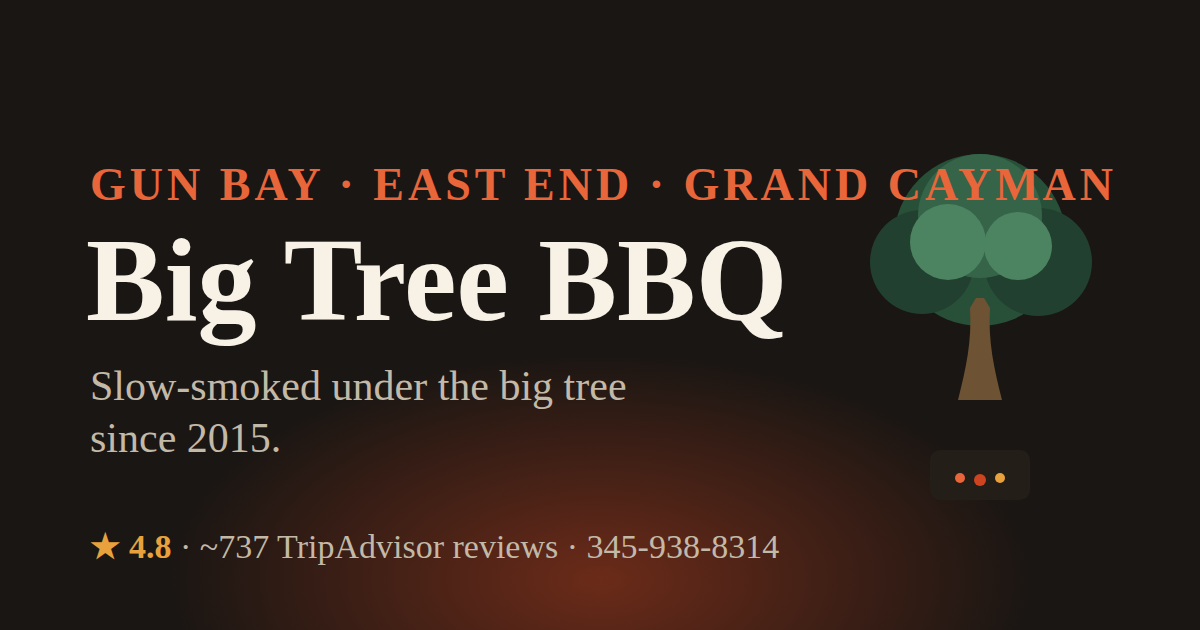
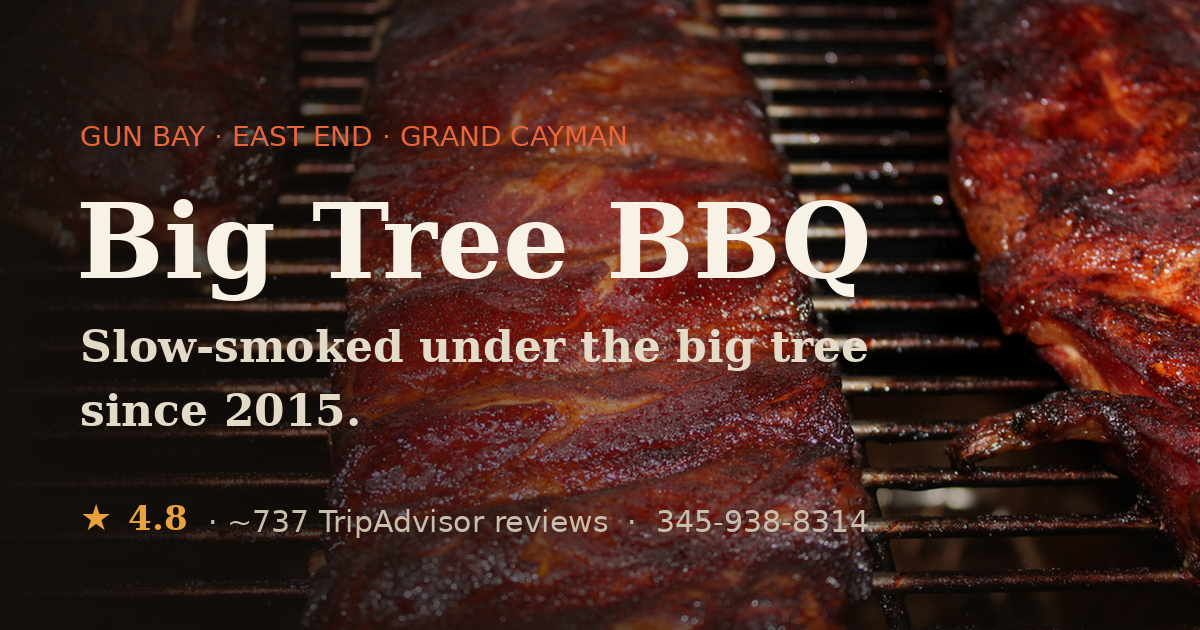
Big Tree BBQ: replace illustrations with real licensed photography (#3)
Swap the hero SVG scene, story tree illustration and dashed gallery
placeholders for real barbecue photographs (CC BY 2.0, Flickr via the
Open Images index; full attribution in PHOTO-CREDITS.md + footer link):

- Hero: glazed rib racks on the grate (also drives the new photographic
  OG/social card, replacing og-image.svg)
- Menu: photo header on The Pit category
- Story: chicken smoking over charcoal on an open kettle
- Visit gallery: sauced ribs, grilled chicken, open fire pit

All images sized/compressed (58-250KB), explicit width/height (no CLS),
lazy-loaded below the fold, hero preloaded with fetchpriority=high,
descriptive alt text, and labelled on-page as representative until the
family supplies their own shots. axe re-run: 0 critical/serious.

Claude-Session: https://claude.ai/code/session_01FcBpgNBCtY74ECRVXeQZAj

diff --git a/big-tree-bbq/index.html b/big-tree-bbq/index.html
@@ -26,6 +26,7 @@
 
 <link rel="preconnect" href="https://fonts.googleapis.com">
 <link rel="preconnect" href="https://fonts.gstatic.com" crossorigin>
+<link rel="preload" as="image" href="photos/hero-ribs.jpg" fetchpriority="high">
 <link rel="preload" as="style" href="https://fonts.googleapis.com/css2?family=Zilla+Slab:wght@500;600;700&family=Hanken+Grotesk:wght@400;500;600;700&display=swap">
 <link href="https://fonts.googleapis.com/css2?family=Zilla+Slab:wght@500;600;700&family=Hanken+Grotesk:wght@400;500;600;700&display=swap" rel="stylesheet">
 
@@ -197,15 +198,10 @@ header{position:sticky;top:0;z-index:100;height:var(--bar-h);
 .stars{display:inline-flex;gap:2px}
 .stars svg{width:16px;height:16px;color:var(--gold)}
 .hero-art{position:relative}
-.hero-art svg{width:100%;height:auto;filter:drop-shadow(0 24px 40px rgba(0,0,0,.35))}
-@media (max-width:900px){.hero-art{max-width:420px;margin-top:var(--s4)}}
-.ember{transform-origin:center;animation:flick 3.4s ease-in-out infinite}
-.ember2{animation-delay:.7s}.ember3{animation-delay:1.5s}
-@keyframes flick{0%,100%{opacity:.85;transform:translateY(0)}50%{opacity:1;transform:translateY(-1.5px)}}
-.smoke{animation:rise 6s ease-in-out infinite}
-.smoke2{animation-delay:2s}
-@keyframes rise{0%{opacity:.0;transform:translateY(6px)}40%{opacity:.5}100%{opacity:0;transform:translateY(-14px)}}
-@media (prefers-reduced-motion:reduce){.ember,.smoke{animation:none}}
+.hero-art img{width:100%;height:auto;border-radius:var(--r-lg);box-shadow:0 24px 48px rgba(0,0,0,.45), 0 0 0 1px rgba(247,241,230,.08)}
+.art-credit{margin-top:var(--s2);font-size:var(--fs-2xs, .72rem);font-size:.75rem;color:var(--muted-light);opacity:.75}
+.art-credit a{color:inherit;text-decoration:underline}
+@media (max-width:900px){.hero-art{max-width:460px;margin-top:var(--s4)}}
 
 /* ---------- Proof strip ---------- */
 .proof{background:var(--g700);color:var(--cream)}
@@ -238,6 +234,7 @@ section{padding-block:clamp(var(--s8),10vw,var(--s9))}
   border:1px solid rgba(126,169,139,.22);border-radius:var(--r-lg);padding:var(--s6);position:relative;overflow:hidden}
 .cat.feature::after{content:"";position:absolute;right:-40px;top:-40px;width:180px;height:180px;
   background:radial-gradient(circle,rgba(207,68,32,.22),transparent 70%)}
+.cat-photo{width:100%;height:auto;border-radius:var(--r-md);margin-bottom:var(--s4);box-shadow:0 8px 24px rgba(0,0,0,.4)}
 .cat h3{font-size:var(--fs-xl);color:var(--cream);display:flex;align-items:center;gap:12px}
 .cat h3 svg{width:26px;height:26px;color:var(--ember-soft);flex:none}
 .cat .cat-note{font-size:var(--fs-sm);color:var(--muted-light);margin-top:6px}
@@ -270,9 +267,9 @@ section{padding-block:clamp(var(--s8),10vw,var(--s9))}
 .story-copy p{margin-top:var(--s4);color:var(--muted)}
 .story-copy .sig{margin-top:var(--s5);font-family:var(--display);font-weight:600;color:var(--g600);font-size:var(--fs-lg)}
 .story-art{background:linear-gradient(165deg,var(--g600),var(--g800));border-radius:var(--r-lg);
-  padding:var(--s7);box-shadow:var(--e3);position:relative;overflow:hidden;color:var(--cream)}
-.story-art svg.big-tree{width:100%;max-width:340px;margin-inline:auto}
-.story-art .cap{text-align:center;margin-top:var(--s4);font-size:var(--fs-sm);color:var(--g100)}
+  padding:var(--s4);box-shadow:var(--e3);position:relative;overflow:hidden;color:var(--cream)}
+.story-art img{width:100%;height:auto;border-radius:var(--r-md)}
+.story-art .cap{text-align:center;margin-top:var(--s3);font-size:var(--fs-xs);color:var(--g100)}
 
 /* ---------- Sunday band ---------- */
 .sunday{background:linear-gradient(120deg,var(--ember-deep),var(--ember));color:#fff;text-align:center}
@@ -325,13 +322,11 @@ table.hours tr.closed td{color:var(--muted)}
 .visit-cta{display:flex;flex-wrap:wrap;gap:var(--s3);margin-top:var(--s5)}
 .note-flag{margin-top:var(--s5);font-size:var(--fs-xs);color:var(--muted);background:var(--cream);border:1px dashed var(--line);border-radius:var(--r-md);padding:var(--s3) var(--s4)}
 
-/* photo slot — honest placeholder */
+/* photo gallery */
 .photo-slots{display:grid;grid-template-columns:repeat(3,1fr);gap:var(--s3);margin-top:var(--s5)}
 @media (max-width:600px){.photo-slots{grid-template-columns:1fr 1fr}}
-.slot{aspect-ratio:4/3;border:1.5px dashed rgba(33,64,47,.28);border-radius:var(--r-md);
-  background:var(--cream);display:flex;flex-direction:column;align-items:center;justify-content:center;gap:6px;
-  color:var(--muted);font-size:var(--fs-xs);text-align:center;padding:var(--s3)}
-.slot svg{width:26px;height:26px;color:var(--g400)}
+.slot-photo{width:100%;height:auto;aspect-ratio:4/3;object-fit:cover;border-radius:var(--r-md);box-shadow:var(--e2)}
+.note-flag a{color:var(--ember-deep);text-decoration:underline}
 
 /* ---------- Footer ---------- */
 footer{background:var(--charcoal);color:var(--muted-light);padding-block:var(--s8) var(--s6)}
@@ -417,37 +412,9 @@ html.js .reveal.in{opacity:1;transform:none}
           </span>
         </div>
       </div>
-      <div class="hero-art" role="img" aria-label="Illustration of a large shade tree over a glowing barbecue pit with drifting smoke.">
-        <svg viewBox="0 0 400 360" fill="none" xmlns="http://www.w3.org/2000/svg">
-          <!-- smoke -->
-          <path class="smoke" d="M205 250c-8-14 6-20-2-34" stroke="rgba(247,241,230,.4)" stroke-width="4" stroke-linecap="round"/>
-          <path class="smoke smoke2" d="M235 252c8-14-6-22 2-36" stroke="rgba(247,241,230,.3)" stroke-width="4" stroke-linecap="round"/>
-          <!-- canopy -->
-          <g>
-            <circle cx="200" cy="120" r="92" fill="#285039"/>
-            <circle cx="132" cy="150" r="60" fill="#21402f"/>
-            <circle cx="268" cy="150" r="62" fill="#21402f"/>
-            <circle cx="200" cy="96" r="70" fill="#356449"/>
-            <circle cx="160" cy="120" r="46" fill="#3f7355"/>
-            <circle cx="244" cy="126" r="42" fill="#3f7355"/>
-          </g>
-          <!-- trunk -->
-          <path d="M188 190c2 30-4 52-10 78h64c-6-26-12-48-10-78l-6-8h-32l-6 8Z" fill="#6d5233"/>
-          <path d="M198 196c0 30-2 50-6 72M206 196c0 24 2 44 6 72" stroke="#553f26" stroke-width="3" stroke-linecap="round"/>
-          <!-- pit / drum -->
-          <rect x="150" y="270" width="100" height="54" rx="10" fill="#241e19"/>
-          <rect x="150" y="270" width="100" height="14" rx="7" fill="#2f2721"/>
-          <rect x="164" y="292" width="72" height="20" rx="6" fill="#0f0c0a"/>
-          <!-- embers -->
-          <circle class="ember" cx="180" cy="302" r="4.5" fill="#e8663a"/>
-          <circle class="ember ember2" cx="200" cy="304" r="5" fill="#cf4420"/>
-          <circle class="ember ember3" cx="220" cy="302" r="4.5" fill="#e8a13c"/>
-          <circle class="ember ember2" cx="210" cy="300" r="3" fill="#f7c88a"/>
-          <!-- legs -->
-          <path d="M164 324v14M236 324v14" stroke="#241e19" stroke-width="6" stroke-linecap="round"/>
-          <!-- ground -->
-          <ellipse cx="200" cy="342" rx="120" ry="10" fill="rgba(0,0,0,.25)"/>
-        </svg>
+      <div class="hero-art">
+        <img src="photos/hero-ribs.jpg" width="1400" height="1050" alt="Racks of glazed, slow-smoked ribs lined up on the grate over the pit." fetchpriority="high">
+        <p class="art-credit">Representative photo — owner photography coming. <a href="PHOTO-CREDITS.md">Credits</a></p>
       </div>
     </div>
   </section>
@@ -484,6 +451,7 @@ html.js .reveal.in{opacity:1;transform:none}
       </div>
       <div class="board">
         <div class="cat reveal">
+          <img class="cat-photo" src="photos/menu-pit-ribs.jpg" width="1000" height="562" alt="A whole rack of bark-crusted ribs smoking on the grill." loading="lazy">
           <h3>
             <svg viewBox="0 0 24 24" fill="none" stroke="currentColor" stroke-width="1.7" stroke-linecap="round" stroke-linejoin="round" aria-hidden="true"><path d="M4 20c2-5 5-8 8-8s6 3 8 8"/><path d="M9 12 7.5 6.5M12 12l0-6M15 12l1.5-5.5"/><path d="M6 20h12"/></svg>
             The Pit
@@ -578,20 +546,9 @@ html.js .reveal.in{opacity:1;transform:none}
         <p>There’s no dining room and no gimmicks. Just charcoal, a family that loves to feed people, and the best seats on the island: under the branches, out in the open, with the trade winds coming off the sea.</p>
         <p class="sig">— Henry &amp; Arvin Harris</p>
       </div>
-      <div class="story-art reveal" role="img" aria-label="Illustration of the big shade tree the barbecue is named for.">
-        <svg class="big-tree" viewBox="0 0 300 300" fill="none" xmlns="http://www.w3.org/2000/svg">
-          <circle cx="150" cy="110" r="86" fill="#2f5c41"/>
-          <circle cx="92" cy="132" r="52" fill="#254a34"/>
-          <circle cx="208" cy="132" r="54" fill="#254a34"/>
-          <circle cx="150" cy="86" r="62" fill="#3f7355"/>
-          <circle cx="118" cy="112" r="38" fill="#4c8462"/>
-          <circle cx="188" cy="116" r="34" fill="#4c8462"/>
-          <path d="M140 178c2 34-4 60-12 92h44c-8-32-14-58-12-92l-6-10h-8l-6 10Z" fill="#7a5d3a"/>
-          <path d="M150 184c0 34-2 58-6 86" stroke="#5c4529" stroke-width="3" stroke-linecap="round"/>
-          <path d="M146 200c-10-6-18-4-26 2M154 210c10-4 18 0 24 8" stroke="#5c4529" stroke-width="3" stroke-linecap="round"/>
-          <ellipse cx="150" cy="278" rx="86" ry="9" fill="rgba(0,0,0,.22)"/>
-        </svg>
-        <p class="cap">Owner photo of the real tree &amp; pit to be supplied</p>
+      <div class="story-art reveal">
+        <img src="photos/story-pit.jpg" width="1200" height="900" alt="Chicken smoking over glowing charcoal on an open kettle grill in a back yard." loading="lazy">
+        <p class="cap">The charcoal way — representative photo; owner shots of the real tree &amp; pit to come</p>
       </div>
     </div>
   </section>
@@ -700,12 +657,12 @@ html.js .reveal.in{opacity:1;transform:none}
               Open in Google Maps
             </a>
           </div>
-          <div class="photo-slots" aria-label="Photo gallery — awaiting owner images">
-            <div class="slot"><svg viewBox="0 0 24 24" fill="none" stroke="currentColor" stroke-width="1.6" stroke-linecap="round" stroke-linejoin="round" aria-hidden="true"><rect x="3" y="5" width="18" height="14" rx="2"/><circle cx="9" cy="11" r="2"/><path d="m3 17 5-4 4 3 3-2 6 5"/></svg>The tree &amp; pit</div>
-            <div class="slot"><svg viewBox="0 0 24 24" fill="none" stroke="currentColor" stroke-width="1.6" stroke-linecap="round" stroke-linejoin="round" aria-hidden="true"><rect x="3" y="5" width="18" height="14" rx="2"/><circle cx="9" cy="11" r="2"/><path d="m3 17 5-4 4 3 3-2 6 5"/></svg>A loaded plate</div>
-            <div class="slot"><svg viewBox="0 0 24 24" fill="none" stroke="currentColor" stroke-width="1.6" stroke-linecap="round" stroke-linejoin="round" aria-hidden="true"><rect x="3" y="5" width="18" height="14" rx="2"/><circle cx="9" cy="11" r="2"/><path d="m3 17 5-4 4 3 3-2 6 5"/></svg>Henry &amp; Arvin</div>
+          <div class="photo-slots" aria-label="Photo gallery">
+            <img class="slot-photo" src="photos/gallery-sauced-ribs.jpg" width="800" height="600" alt="Ribs dripping with thick, glossy barbecue sauce." loading="lazy">
+            <img class="slot-photo" src="photos/gallery-chicken.jpg" width="800" height="600" alt="Grilled half chickens with crisp golden skin on a plate." loading="lazy">
+            <img class="slot-photo" src="photos/gallery-fire.jpg" width="800" height="600" alt="An open fire pit burning down to cooking coals in the yard." loading="lazy">
           </div>
-          <p class="note-flag">Address, exact hours and payment methods are shown from public listings and are pending confirmation by the owner. Real photography replaces the placeholders above at launch.</p>
+          <p class="note-flag">Address, exact hours and payment methods are shown from public listings and are pending confirmation by the owner. Photos are representative (<a href="PHOTO-CREDITS.md">credits</a>) until the family's own photography replaces them.</p>
         </div>
       </div>
     </div>
@@ -738,7 +695,7 @@ html.js .reveal.in{opacity:1;transform:none}
     </div>
     <div class="foot-bottom">
       <span>© <span id="year">2026</span> Big Tree BBQ · Gun Bay, East End, Grand Cayman</span>
-      <span>Site by <a href="../foundry-labs/" >Foundry Labs</a> · <a href="AUDIT-big-tree-bbq.md">Research</a></span>
+      <span>Site by <a href="../foundry-labs/" >Foundry Labs</a> · <a href="AUDIT-big-tree-bbq.md">Research</a> · <a href="PHOTO-CREDITS.md">Photo credits</a></span>
     </div>
   </div>
 </footer>

diff --git a/big-tree-bbq/PHOTO-CREDITS.md b/big-tree-bbq/PHOTO-CREDITS.md
@@ -1,0 +1,23 @@
+# Photo credits — Big Tree BBQ website
+
+The photographs on this site are **representative barbecue imagery, not photos of
+Big Tree BBQ itself**. They are stand-ins until the Harris family supplies their
+own photography of the yard, the tree, the pit and their plates (see the client
+to-do list in `README.md`).
+
+All photos are real photographs by the credited photographers, licensed
+**[CC BY 2.0](https://creativecommons.org/licenses/by/2.0/)**, sourced via the
+[Open Images Dataset](https://storage.googleapis.com/openimages/web/index.html)
+(which indexes Flickr photos with their licenses and authorship). Images were
+cropped, resized and compressed for the web; no other alterations.
+
+| File | Used for | Photographer | Source |
+| --- | --- | --- | --- |
+| `photos/hero-ribs.jpg` (also the social/OG card) | Hero | Enrico BBQness | https://www.flickr.com/photos/bbqnessdotcom/15823489640 |
+| `photos/story-pit.jpg` | Story section | Sam Greenhalgh | https://www.flickr.com/photos/zapthedingbat/533745423 |
+| `photos/menu-pit-ribs.jpg` | Menu — The Pit | Christopher Page | https://www.flickr.com/photos/elbiffster/3828231948 |
+| `photos/gallery-sauced-ribs.jpg` | Gallery | Dplanet:: | https://www.flickr.com/photos/dplanet/339602870 |
+| `photos/gallery-chicken.jpg` | Gallery | deramaenrama | https://www.flickr.com/photos/deramaenrama/244756820 |
+| `photos/gallery-fire.jpg` | Gallery | Tyler Thompson | https://www.flickr.com/photos/82036561@N00/456017132 |
+
+Each image above: © its photographer, [CC BY 2.0](https://creativecommons.org/licenses/by/2.0/), cropped/resized.

diff --git a/big-tree-bbq/QA-LOG.md b/big-tree-bbq/QA-LOG.md
@@ -34,6 +34,18 @@ live "open now" logic. Contrast ratios verified with a standalone WCAG script.
 - "Open now" logic verified against fixed America/Cayman (UTC-5) offset — on a Saturday it correctly reads **"Closed · opens tomorrow 11am."**
 - Full-page render reviewed at desktop + mobile; section rhythm, hierarchy and copy confirmed.
 
+### Loop 4 — photography pass (client request: replace graphics with photos)
+- Replaced the hero SVG scene, story tree illustration and the three dashed
+  gallery placeholders with **real photographs** (CC BY 2.0, sourced from the
+  Open Images/Flickr index over the only network route the sandbox allows);
+  added a photo header to the menu's "The Pit" category and rebuilt the OG
+  card from the hero photo.
+- Every photo: explicit `width`/`height` (no CLS), `loading="lazy"` below the
+  fold, hero `fetchpriority="high"` + `<link rel="preload">`, descriptive alt
+  text, and an on-page "representative photo" label so nothing passes as the
+  family's own. Attribution in `PHOTO-CREDITS.md` + footer link.
+- Re-ran axe (0 critical/serious) and full-page renders at 1280/390 — pass.
+
 ## BLOCKER phase scoring (must be 100%)
 
 | Phase | Result |

diff --git a/big-tree-bbq/README.md b/big-tree-bbq/README.md
@@ -18,8 +18,10 @@ research showed none of the local comparators need one.
   no framework, no dependencies.
 - Custom design tokens (no Tailwind/shadcn defaults). Fonts: Zilla Slab + Hanken
   Grotesk via Google Fonts (preloaded, `font-display:swap`, with system fallbacks).
-- Hand-authored SVG artwork (hero tree + ember pit, favicon, OG image) — no stock
-  or AI-generated photography.
+- Real photography (`photos/`): CC BY 2.0 licensed barbecue photos with full
+  attribution in `PHOTO-CREDITS.md` — clearly labelled on-site as representative
+  stand-ins until the family's own photos arrive. No AI-generated imagery.
+  The favicon/logo mark and UI icons remain hand-authored SVG.
 - `Restaurant` JSON-LD, full OG/Twitter meta, `robots.txt`, `sitemap.xml`.
 - Accessibility verified with axe-core (0 critical/serious), keyboard-operable,
   44px targets, WCAG AA contrast.
@@ -30,7 +32,8 @@ research showed none of the local comparators need one.
 | --- | --- |
 | `index.html` | The whole site (inline CSS + design tokens) |
 | `script.js` | Live "open now" (Cayman time), mobile nav, star render, scroll reveal |
-| `favicon.svg` · `og-image.svg` / `og-image.png` | Icons & social card |
+| `favicon.svg` · `og-image.png` | Logo mark & photographic social card |
+| `photos/` · `PHOTO-CREDITS.md` | CC BY 2.0 photography + attribution |
 | `robots.txt` · `sitemap.xml` | Crawl/SEO |
 | `AUDIT-big-tree-bbq.md` | Phase A — sourced research audit |
 | `PLAN-big-tree-bbq.md` | Phase B — sitemap, copy, tokens, SEO fixes |
@@ -51,7 +54,7 @@ Everything below is shown on-site as a **clearly-labelled placeholder** or is dr
 from public listings pending confirmation. None of it is fabricated.
 
 1. **Logo / wordmark** and official brand colours (current wordmark & palette are our proposal).
-2. **Real photography** — the tree, the pit, plated food, Henry & Arvin (replaces the labelled placeholder slots and the story illustration).
+2. **Real photography** — the tree, the pit, plated food, Henry & Arvin. The site currently uses licensed CC BY 2.0 barbecue photos (credited in `PHOTO-CREDITS.md`, labelled representative on-site); the family's own shots should replace them.
 3. **Exact street address** — confirm "Austin Conolly Drive, Gun Bay" (a "503 Austin Conolly Dr" appears in aggregators) before it goes in the map pin + structured data.
 4. **Owner name spelling** — Arvin vs Arvid.
 5. **Exact founding year** (we show "since 2015" from press coverage).